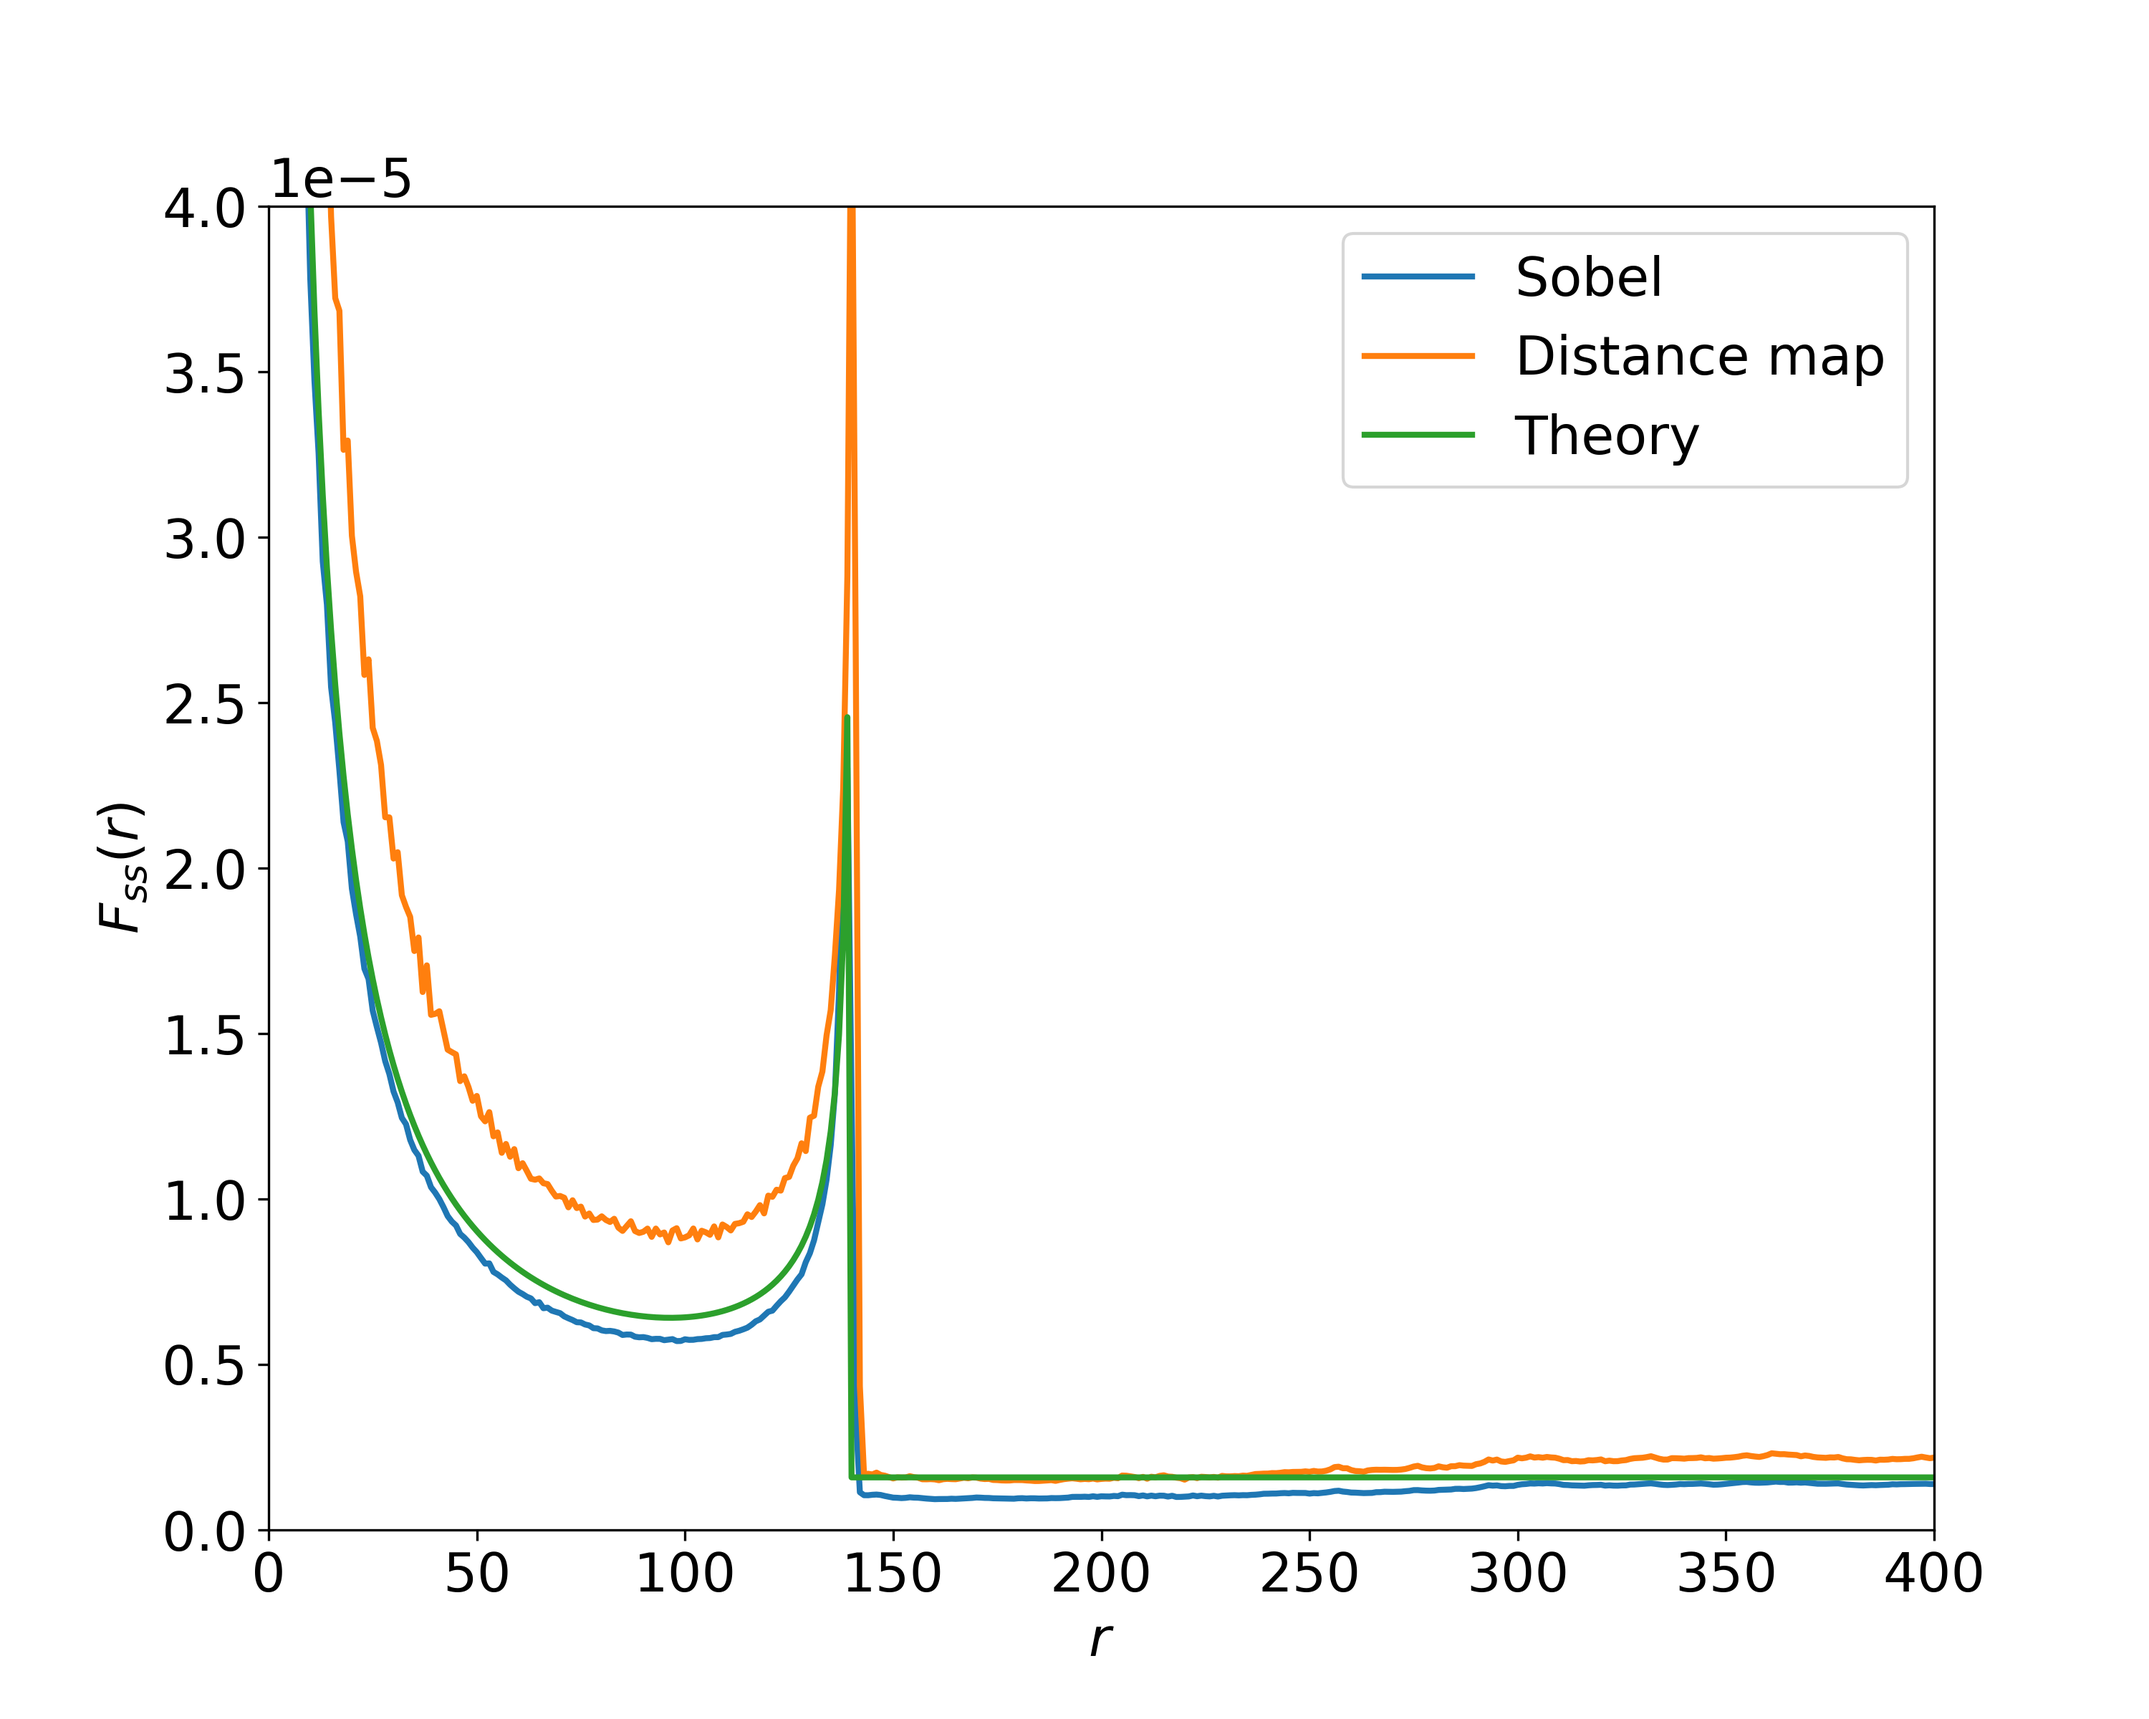
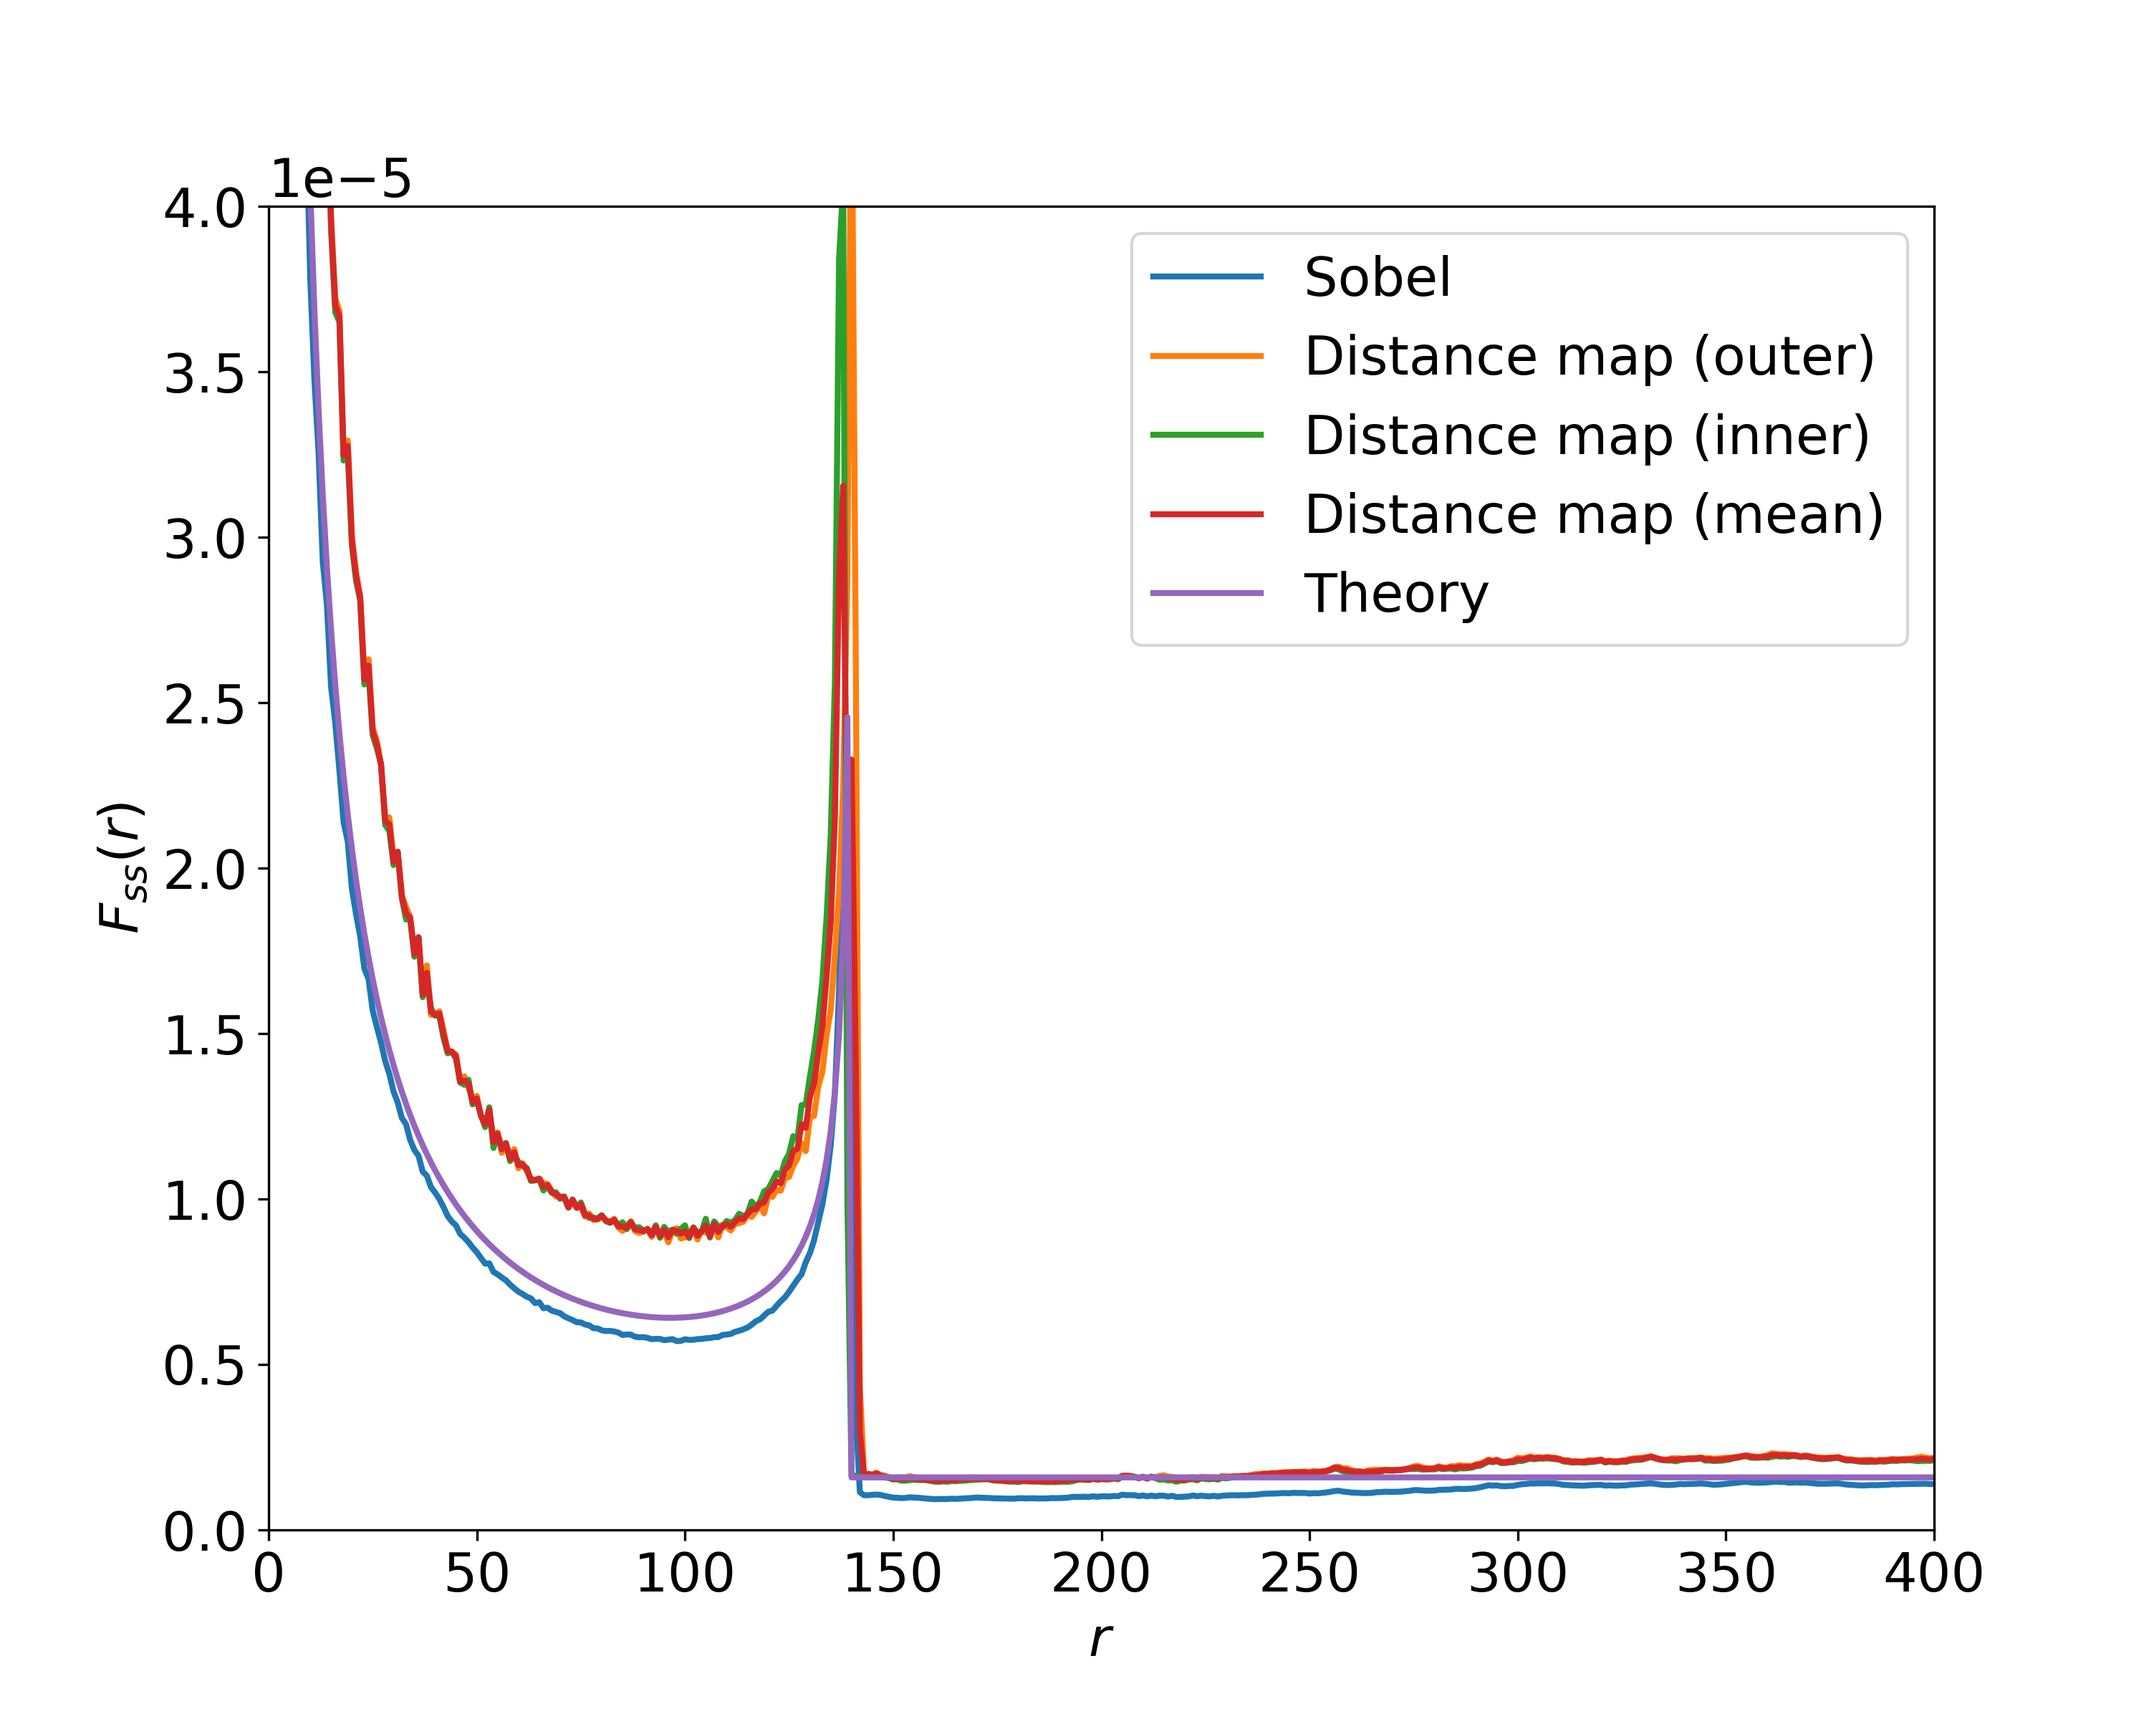
More words about distance map (final)

diff --git a/surf-surf.tex b/surf-surf.tex
@@ -427,8 +427,8 @@ part of phase, and positive value means pixel lies on the interface.
   \centering
   \includegraphics[width=0.99\linewidth]{images/dm_sobel.png}
   \caption{Surface-surface correlation function calculated with different
-    interface extraction methods (Sobel on the top, distance map on the
-    bottom).}
+    interface extraction methods (Sobel to the left, distance map to the
+    right).}
   \label{fig:interface-extraction}
 \end{figure}
 \begin{figure}[ht]
@@ -693,8 +693,9 @@ Sobel operator and interface extraction with distance map. When using distance
 map both outer (\cref{eq:dist-outer}) and inner (\cref{eq:dist-inner})
 interfaces are used to compute the correlation function. An average over the
 last two functions is also shown. As you can see both methods -- distance map
-and image filtering -- have an error compared to the analytical solution. If we
-increase the radius of disks and the image resolution
+and image filtering -- have an error compared to the analytical
+solution. \textcolor{red}{How is that?? In my opinion Sobel is pretty close to
+  the theory.} If we increase the radius of disks and the image resolution
 ($R = 70,\ \lambda = 3 \cdot 10^{-6}$ on image with dimensions $5000 \times 5000$)
 we get the result as on \cref{fig:sobel-vs-distance-map}. In this case the image
 filtering method achieved an analytical solution  while the distance map failed
